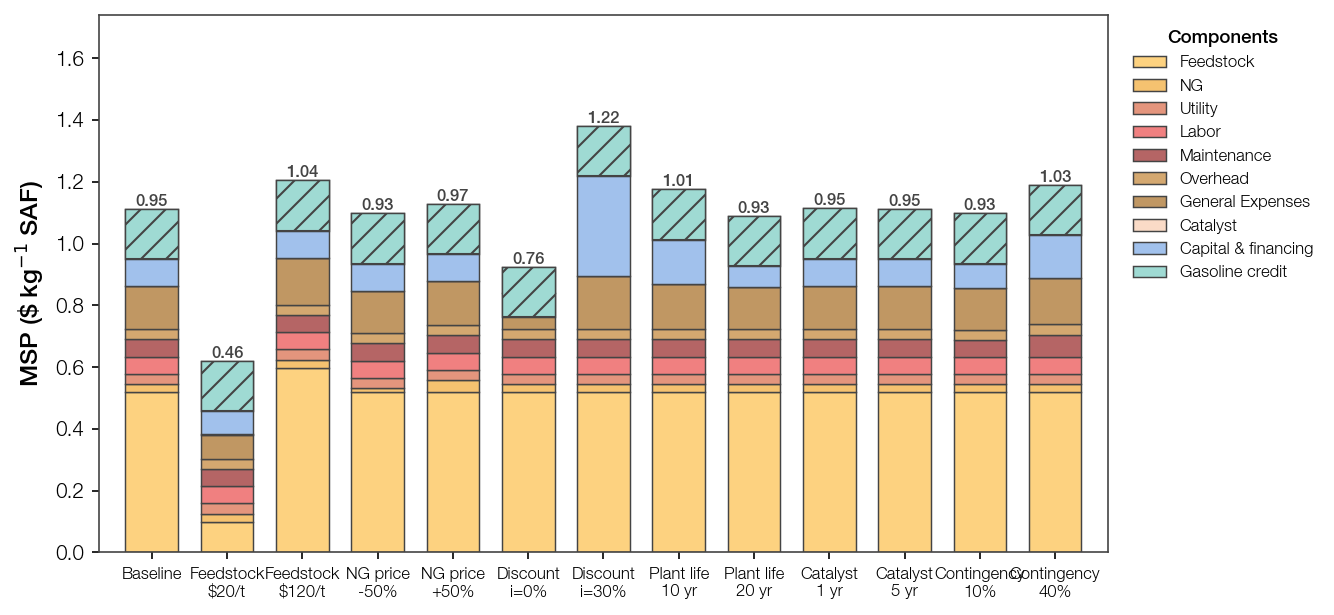
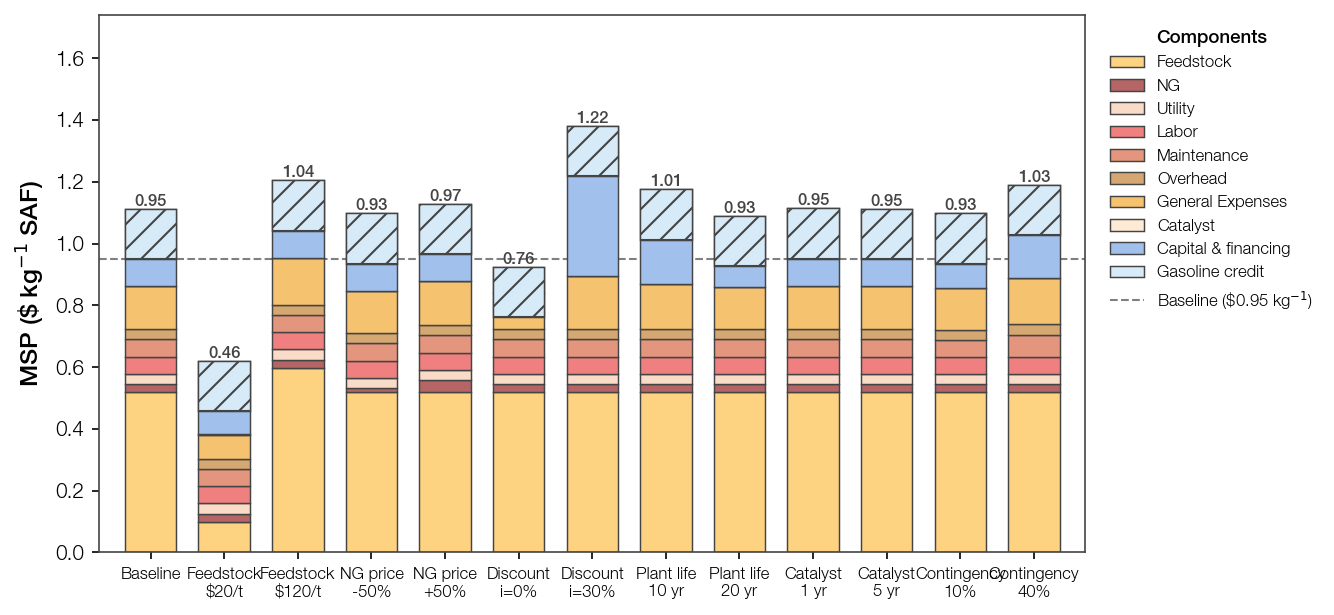
Add baseline reference line + drHa palette to SA composition figures
- dashed baseline line (behind bars, gray) with unit-labelled value in legend
- TEA recolored to drHa_TEA_summary_3 palette (warm OPEX, cool CAPEX);
  gasoline credit = lightest drHa blue

Claude-Session: https://claude.ai/code/session_01LuzmmpXFosBqD8fS5ubN1T

Changed region(s): [[0.0922, 0.0309, 0.9835, 0.8959], [0.0922, 0.9268, 0.8298, 0.9886]]

diff --git a/sa/sa_composition.py b/sa/sa_composition.py
@@ -72,10 +72,11 @@ def stacked(ax, order, colors, values, credit_key=None):
 # ---------------- TEA: MSP cost-bucket composition ($/kg SAF) ----------------
 TEA_ORDER = ["Feedstock", "NG", "Utility", "Labor", "Maintenance", "Overhead",
              "General Expenses", "Catalyst", "Capital & financing", "Gasoline credit"]
-TEA_COLORS = {"Feedstock": "#FDD280", "NG": "#F5C270", "Utility": "#E4957D",
-              "Labor": "#F08080", "Maintenance": "#B56565", "Overhead": "#D4A870",
-              "General Expenses": "#C09763", "Catalyst": "#FADBC7",
-              "Capital & financing": "#A1C1EC", "Gasoline credit": "#9FDAD3"}
+# drHa_TEA_summary_3.png palette: warm (peach/gold/coral) OPEX, cool blue/teal CAPEX
+TEA_COLORS = {"Feedstock": "#FDD280", "NG": "#B56565", "Utility": "#FADBC7",
+              "Labor": "#F08080", "Maintenance": "#E4957D", "Overhead": "#D4A870",
+              "General Expenses": "#F5C270", "Catalyst": "#FEEBD6",
+              "Capital & financing": "#A1C1EC", "Gasoline credit": "#D6EAF8"}
 TEA_CREDIT = "Gasoline credit"   # drawn downward (negative); net stack = MSP
 _BIO_TON = M.BIO_PRICE0 * 1000
 # (group name, npv kwarg, lo value, hi value, lo label, hi label)
@@ -148,14 +149,19 @@ def build_lca():
     return vals, labels
 
 
-def draw(vals, labels, order, colors, ylabel, fname, credit_key=None):
+def draw(vals, labels, order, colors, ylabel, fname, credit_key=None,
+         base_fmt="{v:.2f}"):
     fig, ax = plt.subplots(figsize=(9, 4.2))
     x = stacked(ax, order, colors, vals, credit_key=credit_key)
+    base = sum(vals[0][c] for c in order if c != credit_key) \
+        - (vals[0][credit_key] if credit_key else 0.0)
+    base_line = ax.axhline(base, color="gray", lw=1.0, ls="--", zorder=0,
+                           label="Baseline (" + base_fmt.format(v=base) + ")")
     ax.set_xticks(x); ax.set_xticklabels(labels, fontsize=8)
     ax.set_ylabel(ylabel)
     ax.set_ylim(0, ax.get_ylim()[1] * 1.2)
     ax.set_xlim(-0.7, len(vals) - 0.3)
-    patches = [mpatches.Patch(color=colors[c], label=c) for c in order]
+    patches = [mpatches.Patch(color=colors[c], label=c) for c in order] + [base_line]
     leg = ax.legend(handles=patches, title="Components",
                     bbox_to_anchor=(1.01, 1), loc="upper left",
                     title_fontproperties={"weight": "500"})
@@ -169,9 +175,11 @@ def draw(vals, labels, order, colors, ylabel, fname, credit_key=None):
 if __name__ == "__main__":
     tv, tl = build_tea()
     draw(tv, tl, TEA_ORDER, TEA_COLORS,
-         r"MSP (\$ kg$^{-1}$ SAF)", "sa_composition_TEA.png", credit_key=TEA_CREDIT)
+         r"MSP (\$ kg$^{-1}$ SAF)", "sa_composition_TEA.png", credit_key=TEA_CREDIT,
+         base_fmt=r"\${v:.2f} kg$^{{-1}}$")
     print(f"  (TEA case {CASE}; hatched band = fixed gasoline co-product credit "
           f"{GAS_CREDIT/A:.3f} $/kg; tick line + label = net MSP)")
     lv, ll = build_lca()
     draw(lv, ll, LCA_ORDER, LCA_COLORS,
-         r"GHG (g CO$_2$e MJ$^{-1}$)", "sa_composition_LCA.png")
+         r"GHG (g CO$_2$e MJ$^{-1}$)", "sa_composition_LCA.png",
+         base_fmt=r"{v:.2f} g CO$_2$e MJ$^{{-1}}$")
